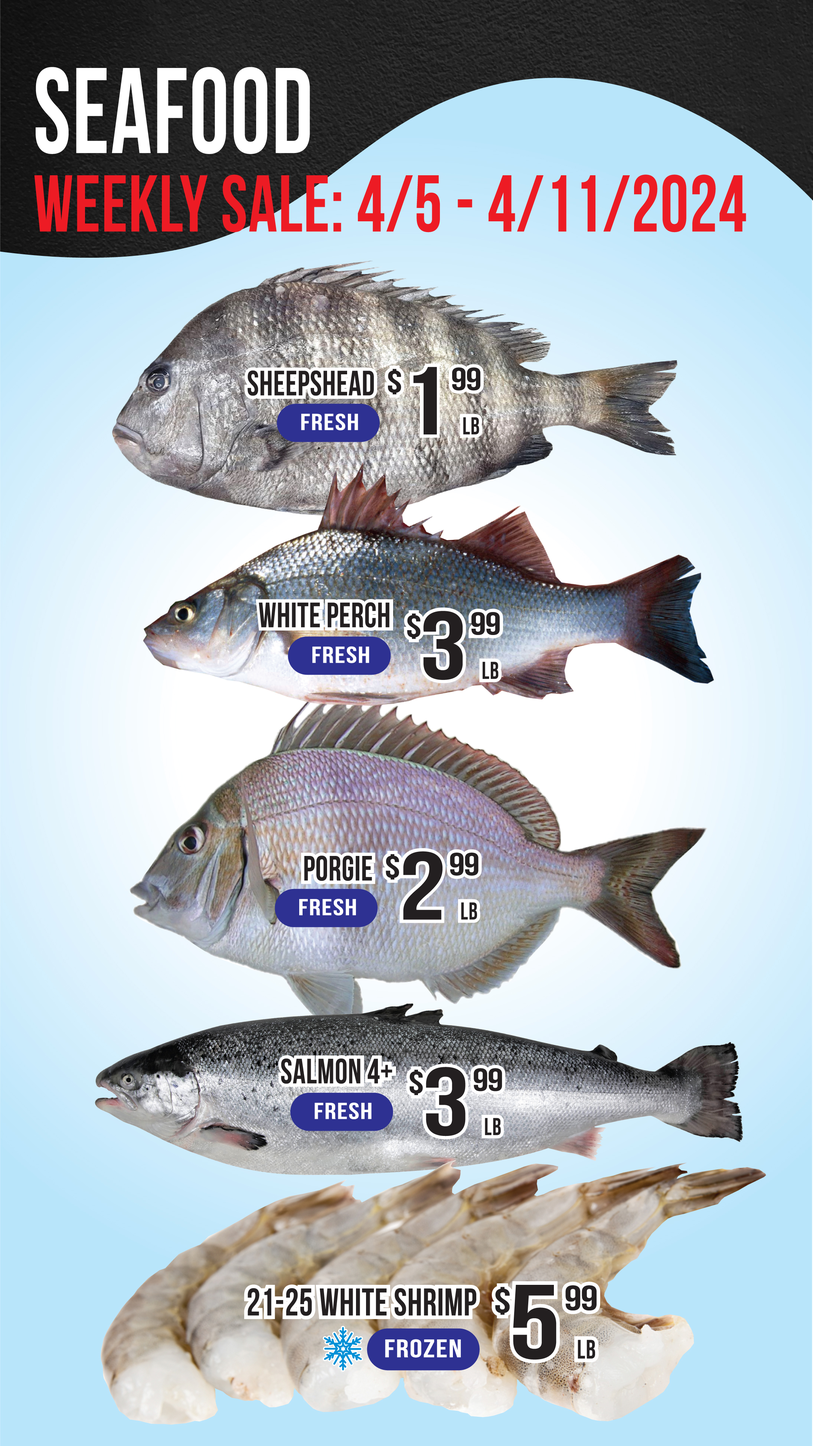
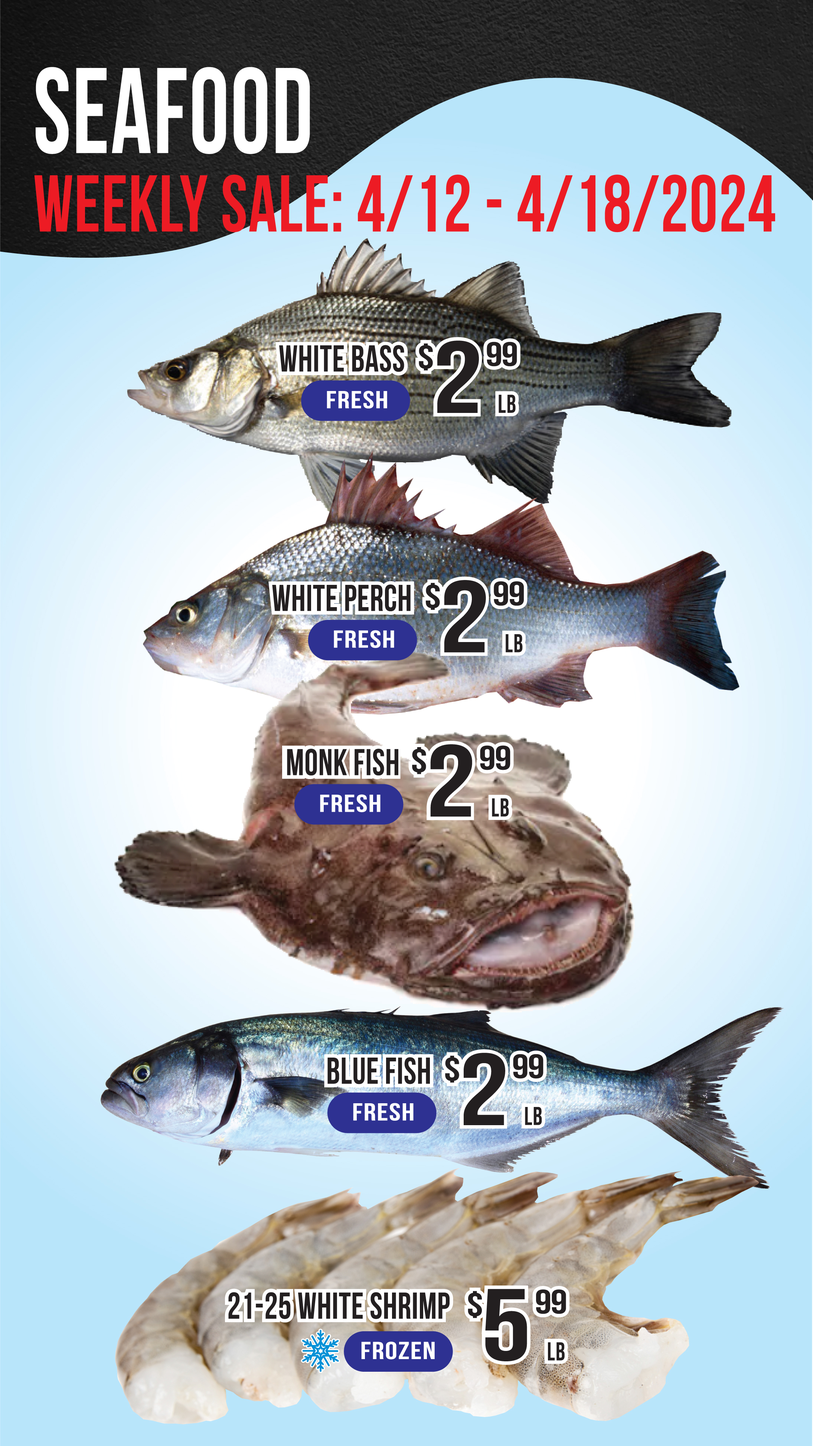
weekly

diff --git a/index.html b/index.html
@@ -64,16 +64,16 @@
           <img src="./public/assets/sp.jpg" class="d-block w-100 img-fluid" alt="...">
         </div> -->
         <div class="carousel-item center-carousel active">
-          <img src="./public/assets/weekly/meat.jpg?v=0405" class="img-fluid" alt="...">
+          <img src="./public/assets/weekly/meat.jpg?v=0412" class="img-fluid" alt="...">
         </div>
         <div class="carousel-item center-carousel">
-          <img src="./public/assets/weekly/veg.jpg?v=0405" class="img-fluid" alt="...">
+          <img src="./public/assets/weekly/veg.jpg?v=0412" class="img-fluid" alt="...">
         </div>
         <div class="carousel-item center-carousel">
-          <img src="./public/assets/weekly/fish.jpg?v=0405" class="img-fluid" alt="...">
+          <img src="./public/assets/weekly/fish.jpg?v=0412" class="img-fluid" alt="...">
         </div>
         <div class="carousel-item center-carousel">
-          <img src="./public/assets/weekly/grocery.jpg?v=0405" class="img-fluid" alt="...">
+          <img src="./public/assets/weekly/grocery.jpg?v=0412" class="img-fluid" alt="...">
         </div>
         <!-- <div class="carousel-item center-carousel">
           <img src="./public/assets/sale/grocery2.jpg?v=070623" class="img-fluid" alt="...">

diff --git a/deals.html b/deals.html
@@ -50,15 +50,15 @@
     <div class="row deal">
 
       <h2>English</h2>
-      <img class="img-fluid" src="./public/assets/weekly/english.jpg?v=0405">
+      <img class="img-fluid" src="./public/assets/weekly/english.jpg?v=0412">
 
       <br><br>
       <h2>Spanish</h2>
-      <img class="img-fluid" src="./public/assets/weekly/spanish.jpg?v=0405">
+      <img class="img-fluid" src="./public/assets/weekly/spanish.jpg?v=0412">
 
       <br>
       <h2>Korean</h2>
-      <img class="img-fluid" src="./public/assets/weekly/korean.jpg?v=0405">
+      <img class="img-fluid" src="./public/assets/weekly/korean.jpg?v=0412">
       <br>
       <br>
     </div>
